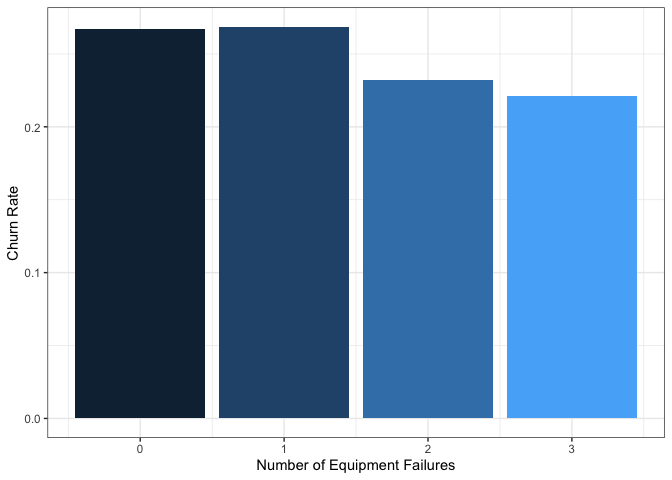
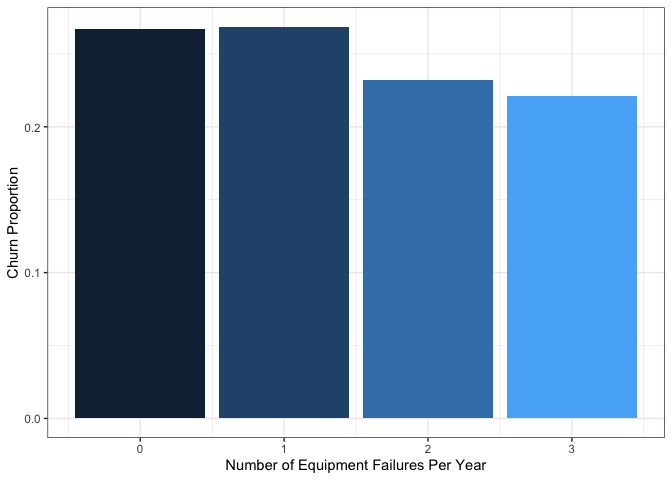
Added two additional visualizations (line plot and map plot) and made several minor text edits to both the main text and plot titles, generally cleaning things up and increasing consistency and clarity.

Changed region(s): [[0.3438, 0.9375, 0.7188, 1.0], [0.0, 0.3438, 0.0312, 0.5938]]

diff --git a/churn_data_vis.md b/churn_data_vis.md
@@ -1,4 +1,4 @@
-Customer churn predictions
+Customer Churn Visualizations
 ================
 
 ``` r
@@ -41,7 +41,7 @@ library(tidymodels)
     ## x dplyr::lag()      masks stats::lag()
     ## x yardstick::spec() masks readr::spec()
     ## x recipes::step()   masks stats::step()
-    ## • Use tidymodels_prefer() to resolve common conflicts.
+    ## • Learn how to get started at https://www.tidymodels.org/start/
 
 ``` r
 library(skimr)
@@ -60,13 +60,9 @@ ch.df <- read_csv("churn_clean.csv")
     ## ℹ Use `spec()` to retrieve the full column specification for this data.
     ## ℹ Specify the column types or set `show_col_types = FALSE` to quiet this message.
 
-``` r
-View(ch.df)
-```
-
 The goal of this project will ultimately be to predict customer churn
-for a telephone company from various predictive variables. First to do
-some exploratory data analysis.
+for a telephone company from various predictive variables. In this first
+file, we will do some exploratory data analytics and data visualization.
 
 ``` r
 ch.df %>% skim
@@ -150,7 +146,7 @@ Data summary
 #it would be nice to turn our churn variable into a binary or logical instead of a factor with "Yes" and "No" categories, so I will do that below.
 
 ch.df <- ch.df %>%
-  mutate(Churn = ifelse(Churn == "Yes", 1, 0))
+  mutate(Churn = as.integer(ifelse(Churn == "Yes", 1, 0)))
 ```
 
 There are 10000 rows of data and 49 independent variables, with a fairly
@@ -161,8 +157,8 @@ investigate some of our predictors.
 It would make sense for there to be a higher churning proportion among
 those who experience more equipment failures. Let’s investigate that.
 Taking the mean of a binary variable gives the proportion of 1’s
-(proportion of churn in this case). There is also a lack of data for 4
-and 6 equipment failures so we will filter those groups out.
+(proportion of churn in this case). There is also a lack of data for 4,
+5, and 6 equipment failures so we will filter those groups out.
 
 ``` r
 #this code first selects just the yearly equipment failure and churn columns, filters for 3 failures or fewer, and then takes the proportion of customers who leave (proportion of churn). The ggplot portion then generates the plot.
@@ -176,14 +172,14 @@ ch.df %>%
   geom_col()+
   theme_bw()+
   theme(legend.position = 'none')+
-  labs(x = "Number of Equipment Failures", y = "Churn Rate")
+  labs(x = "Number of Equipment Failures Per Year", y = "Churn Proportion")
 ```
 
 ![](churn_data_vis_files/figure-gfm/unnamed-chunk-3-1.png)<!-- -->
-
-``` r
-#somewhat paradoxically we see a decline in churn rate with increased equipment failures, this could mean any number of things, possibly those customers are just the ones that report failures and the customers who do not simply leave. In either case the difference is small. 
-```
+Somewhat paradoxically we see a decline in churn rate with increased
+equipment failures, this could mean any number of things, possibly those
+customers are just the ones that report failures and the customers who
+do not simply leave. In either case the difference is small.
 
 Let’s now check the top 20 states for customer churn
 
@@ -191,7 +187,7 @@ Let’s now check the top 20 states for customer churn
 ch.df %>% 
   select(State, Churn) %>%
   group_by(State) %>%
-  summarise(prop = mean(Churn)) %>%
+  summarise(prop = mean(Churn), num = n()) %>%
   arrange(desc(prop))%>%
   filter(prop >= .2772)%>%
   ggplot(aes(fill = reorder(State, -prop), y = prop, x = reorder(State, -prop)))+
@@ -204,10 +200,47 @@ ch.df %>%
 ![](churn_data_vis_files/figure-gfm/unnamed-chunk-4-1.png)<!-- -->
 
 This shows that DC has exceptionally high customer churn (with a sample
-size of 14, which isn’t too small for this dataset), with CT and
-Washington coming in second with a bit of a notable bump over the
-following states. We could also break it down further by city, looking
-at cities in CT and WA.
+size of 14), with CT and Washington coming in second with a bit of a
+notable bump over the following states.
+
+Because this data has a geographical distribution, it may be nice to
+look at a map. Next we will generate a map of customer churn rates, this
+time ignoring DC due to its relatively low sample size and special
+status as a district rather than a state.
+
+``` r
+#We can pull latitude and longitude data for state polygons using the "map_data" function from ggplot2
+mapdata <- map_data("state")
+
+#R also comes with some built-in data, one of which is the state names and abbreviations, we will generate a dataframe from two of these vectors.
+states <- data.frame(region = tolower(state.name),state = state.abb)
+
+#This may be somewhat complicated, so I recommend running in batches of lines. The pipe function is being used a lot here, which "pushes" the contents of the previous line into the first input position of the following function. 
+
+ch.df %>% 
+  select(State, Churn) %>%
+#The three lines below group the data by state and then find the mean churn (% churn) by state, removing DC
+  group_by(State) %>%
+  summarise(prop = mean(Churn)*100) %>%
+  filter(State != "DC") %>%
+#the next two lines join our state positional data together with the main churning dataset, ultimately making use of the state abbreviations.
+  left_join(states, by = c("State" = "state"))%>%
+  left_join(mapdata, by = "region" ) %>%
+#next we plot the data
+  ggplot(aes(x = long, y = lat, group = region))+
+  geom_polygon(aes(fill = prop))+
+#everything below this point is just changing the plot aesthetically. Choosing pretty colors, making the background look prettier, changing labels, and removing ticks from the x and y axes. 
+  scale_fill_gradient(low = "yellow", high = palette()[2])+
+  labs(x= "", y = "", fill = "% Exit", title = "Percent Customer Exit by State")+
+  theme_bw()+
+  theme(axis.ticks.x = element_blank(), axis.text.x = element_blank(), axis.text.y = element_blank(), axis.ticks.y = element_blank())
+```
+
+![](churn_data_vis_files/figure-gfm/unnamed-chunk-5-1.png)<!-- -->
+
+Connecticut and Washington have particulaly high rates of customer
+churn, so it may be interesting to look at cities in these states more
+closely.
 
 ``` r
 ch.df %>% 
@@ -225,9 +258,37 @@ ch.df %>%
   labs(x='City (WA and CT)', y="Proportion of Churn")
 ```
 
-![](churn_data_vis_files/figure-gfm/unnamed-chunk-5-1.png)<!-- -->
+![](churn_data_vis_files/figure-gfm/unnamed-chunk-6-1.png)<!-- -->
 
 Getting this granular is somewhat hard considering there aren’t many
 samples from each of these cities, however in a big-data scenario with
 hundreds of samples for each city this approach would work well, and
-would suggest issues with branches in those locations.
+could suggest issues with branches in those locations that could be
+resolved to improve customer retention.
+
+Next, it would be nice to look at how outage times impact customer
+retention. I will round the outage times to the nearest tenth of a
+second.
+
+``` r
+ch.df <- ch.df %>%
+  mutate(rounded_outage = round(Outage_sec_perweek, 1))
+
+
+ch.df %>%
+  select(rounded_outage, Churn) %>%
+  group_by(rounded_outage) %>%
+  #filtering so we have at least 11 samples we are taking our proportions from
+  filter(n() > 10) %>%
+  summarise(prop_churn = mean(Churn)) %>%
+  ggplot(aes(y = prop_churn, x = rounded_outage))+ 
+  geom_line()+
+  geom_point()+
+  geom_smooth(method = 'lm')+
+  theme_bw()+
+  labs(x= "Seconds of Outage Per Week", y = 'Proportion of Churn')
+```
+
+    ## `geom_smooth()` using formula 'y ~ x'
+
+![](churn_data_vis_files/figure-gfm/unnamed-chunk-7-1.png)<!-- -->
